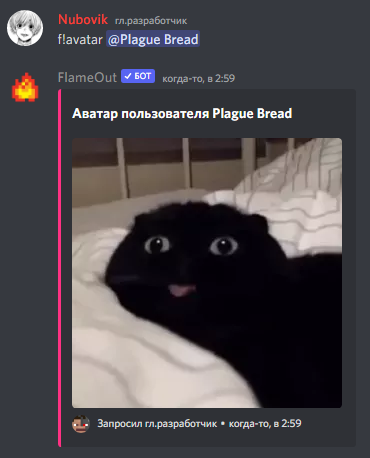
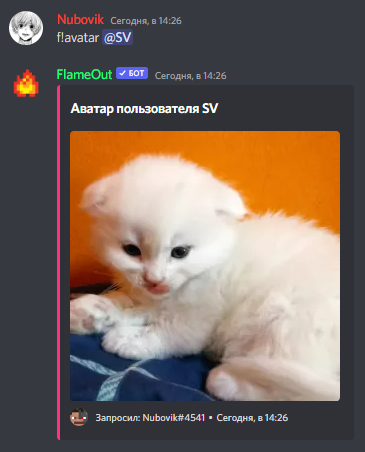
GitBook: [#126] No subject

diff --git a/komandy/slash-komandy.md b/komandy/slash-komandy.md
@@ -20,13 +20,13 @@ Slash-команда с обязательными аргументами выг
 
 Самая распространённая ошибка - ошибка взаимодействия. В этом случае вам надо немного подождать, либо попробовать ввести slash-команду ещё раз, либо, если этот способ не сработал с 2-3 раз, сообщить в поддержку. Имейте в виду, что не всегда может быть наша вина, в основном это ошибки дискорда.
 
-![](<../.gitbook/assets/image (119).png>)
+![](<../.gitbook/assets/image (119) (1).png>)
 
 ### Приложение не отвечает
 
 Ещё одна распространённая ошибка, происходит она уже на нашей стороне и мы её усердно стараемся исправлять :)
 
-![](<../.gitbook/assets/image (204) (1).png>)
+![](<../.gitbook/assets/image (204) (1) (1).png>)
 
 ### Некорректная команда взаимодействия с приложением
 

diff --git a/komandy/argumenty-k-komandam.md b/komandy/argumenty-k-komandam.md
@@ -16,7 +16,7 @@
 
 ![](<../.gitbook/assets/image (204).png>)
 
-На скриншоте виден пример использования выше упомянутой команды. **`@Plague Bread`** — это первый аргумент. Именно по нему бот определяет, чью аватарку стоит показать.
+На скриншоте виден пример использования выше упомянутой команды. **`@SV`** — это первый аргумент. Именно по нему бот определяет, чью аватарку стоит показать.
 
 {% hint style="warning" %}
 Стоит отметить, если в команде есть обязательные аргументы и Вы их не написали команда работать не будет.
